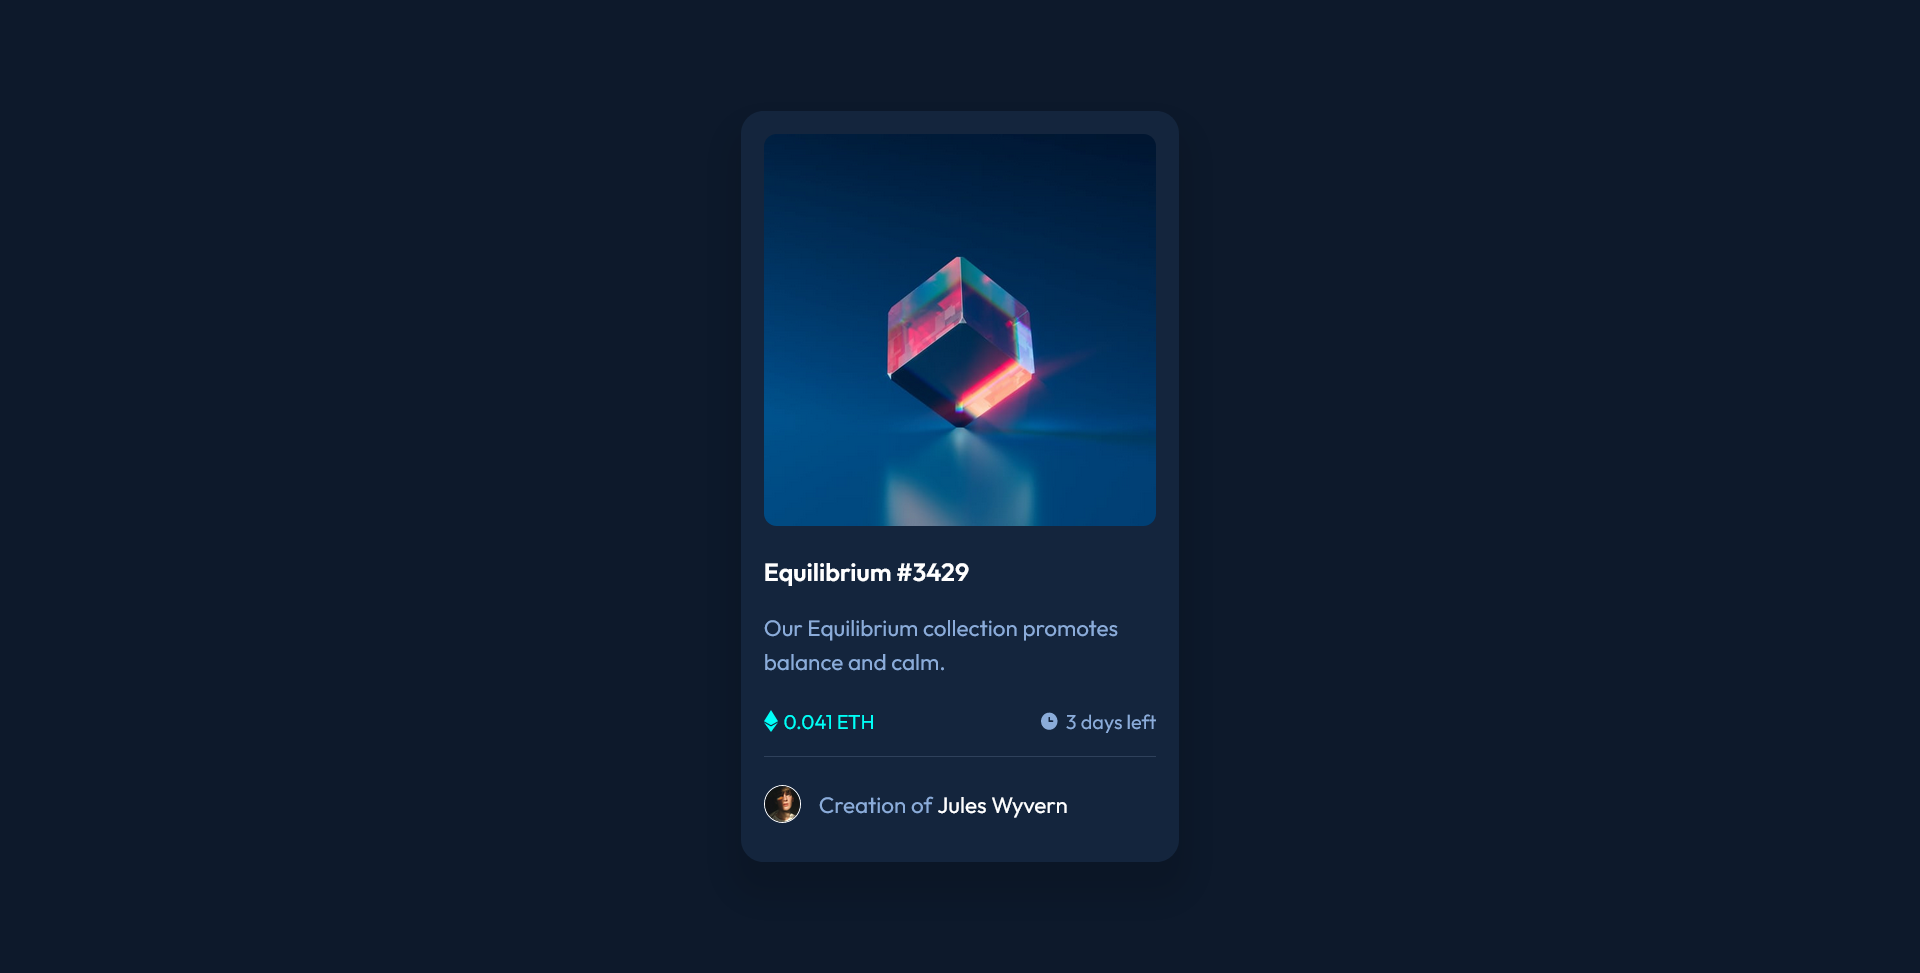
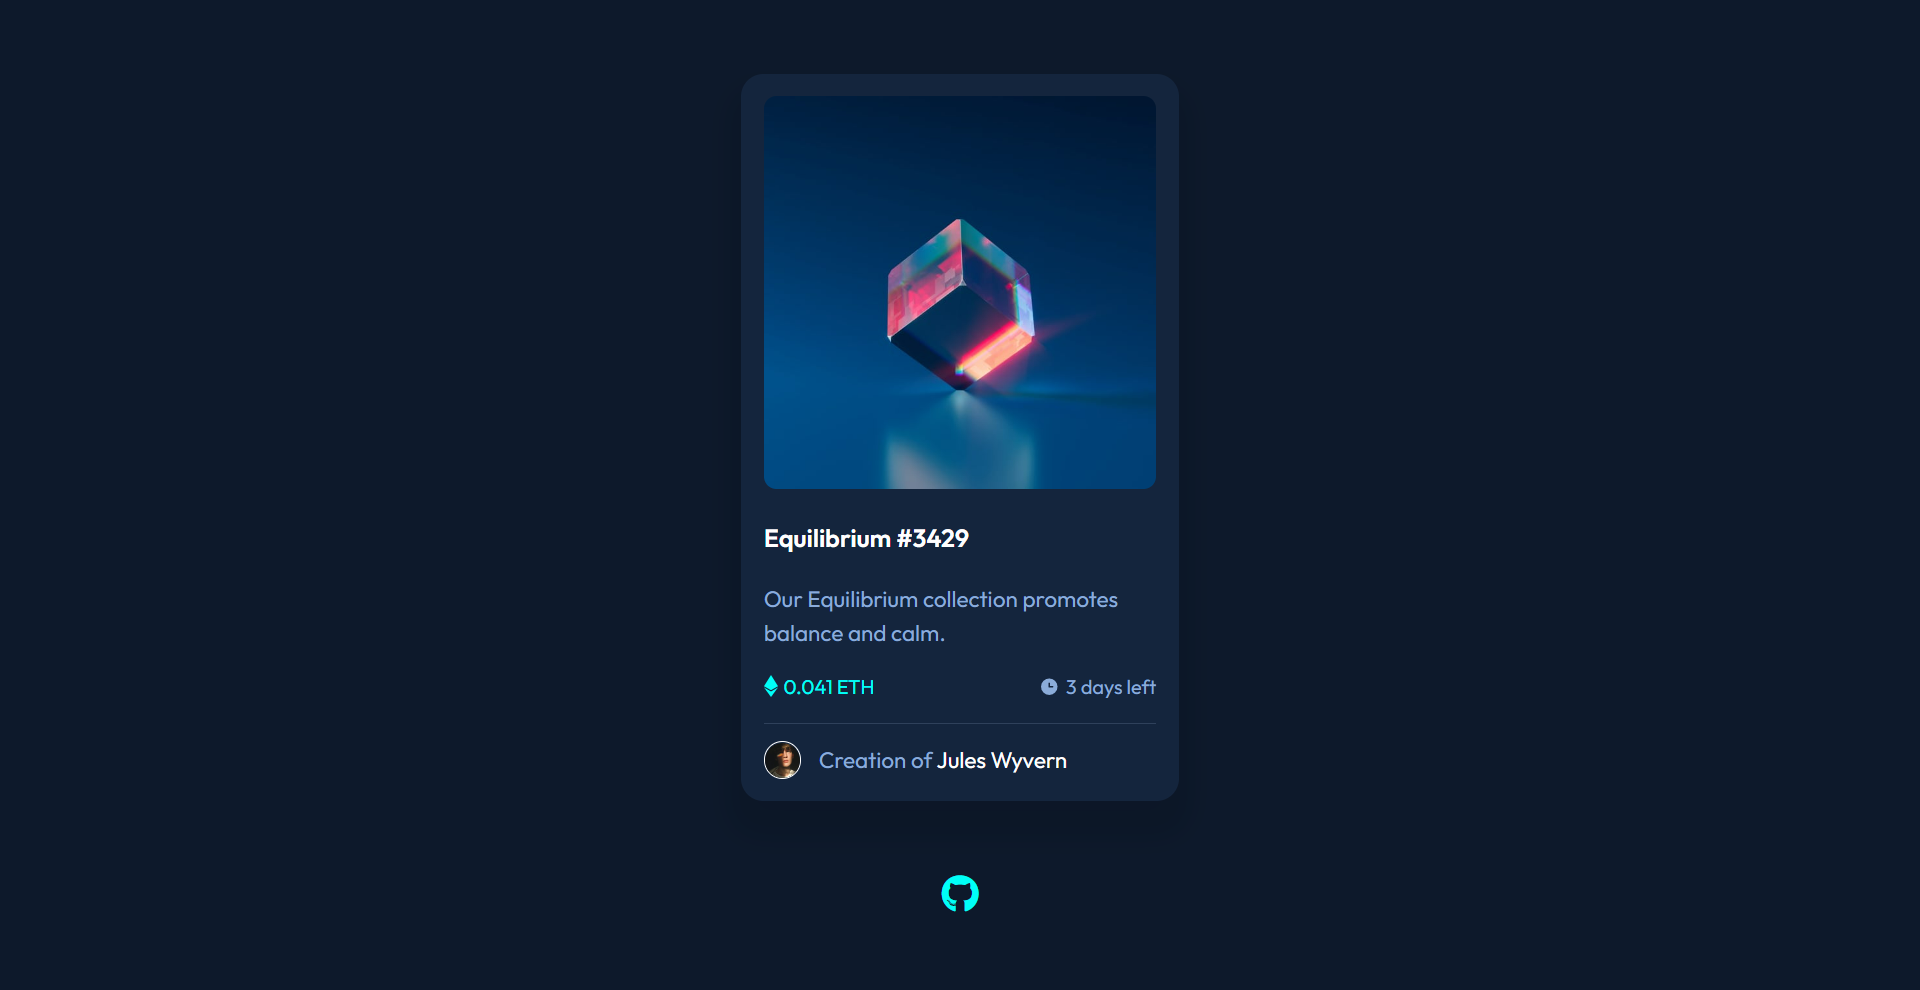
Add link to github repo

diff --git a/index.html b/index.html
@@ -20,6 +20,9 @@
     <link rel="preconnect" href="https://fonts.googleapis.com">
     <link rel="preconnect" href="https://fonts.gstatic.com" crossorigin>
     <link href="https://fonts.googleapis.com/css2?family=Outfit:wght@300;400;600&display=swap" rel="stylesheet">
+
+    <!-- Font Awesome -->
+    <script src="https://kit.fontawesome.com/fb61df7a3d.js" crossorigin="anonymous"></script>
 </head>
 
 <body>
@@ -49,6 +52,10 @@
             </div>
         </div>
     </main>
+
+    <footer>
+        <a href="https://github.com/robinjmm/nft-card-component" target="_blank"><i class="fa-brands fa-github"></i></a>
+    </footer>
 </body>
 
 </html>

diff --git a/scss/layouts/_home.scss b/scss/layouts/_home.scss
@@ -7,6 +7,11 @@ body {
     margin: 0;
     padding: 5vh 0;
     display: flex;
+    flex-direction: column;
     justify-content: center;
     align-items: center;
+}
+
+main {
+    margin-bottom: rem(60px);
 }

diff --git a/scss/components/_link-icons.scss b/scss/components/_link-icons.scss
@@ -1,0 +1,7 @@
+@use "../base/variables" as *;
+
+.fa-github {
+    color: var(--highlight-color);
+    font-size: rem(30px);
+    cursor: pointer;
+}

diff --git a/scss/styles.scss b/scss/styles.scss
@@ -6,4 +6,6 @@
 
 @use "components/card";
 
+@use "components/link-icons";
+
 @use "layouts/home";
